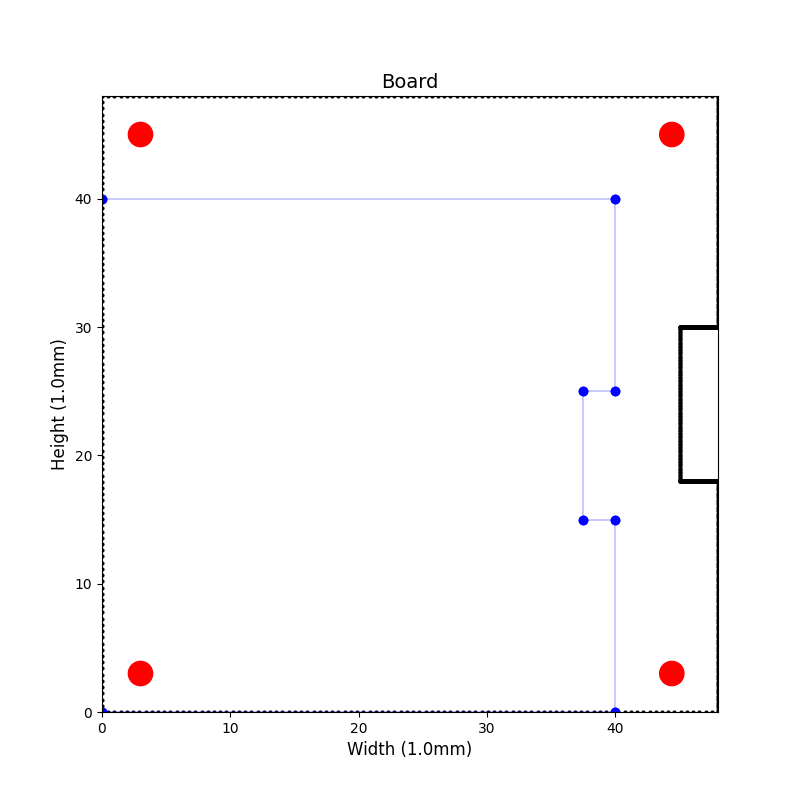
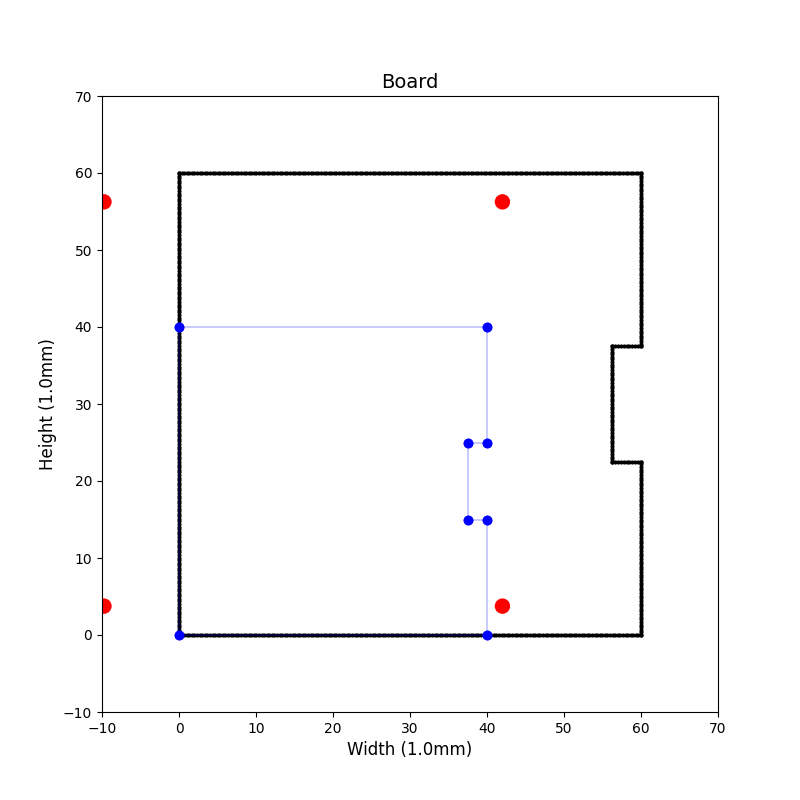
动态适配本地板子-2.0

diff --git a/app/services/layout_service/layout_service.py b/app/services/layout_service/layout_service.py
@@ -4,6 +4,7 @@
 @Author：
 @Time：2024/12/21 14:29
 """
+import math
 import os
 import base64
 import re
@@ -13,13 +14,15 @@ import zipfile
 import io
 from pathlib import Path
 
+import numpy as np
 from fastapi import HTTPException
 from matplotlib import patches
 
 from app.clients.external_service import external_client
 from app.config.logger_config import general_logger, http_logger
 from app.services.layout_service.SSA.parse_kiutils import is_be_contained, is_multiple_tag, reflex_name_to_type, \
-    _shape1, _shape2, _analyze_footprint, _convert_symbol, extract_outer_parentheses_en, extract_outer_parentheses_cn
+    _shape1, _shape2, _analyze_footprint, _convert_symbol, extract_outer_parentheses_en, extract_outer_parentheses_cn, \
+    _shape3
 from app.services.layout_service.SSA.ssa_entity import SymbolModule, BoardEdge
 from app.services.layout_service.SSA.ssa_utils import calculate_arc_parameters, discretize_arc, discretize_line
 from app.services.layout_service.entity.board import Module, Board
@@ -215,7 +218,7 @@ def _get_board_top(data, scale):
             board_edge = _shape2()
             return _get_board_mid(board_edge, scale, "shape2")
         elif template_id == "shape3":
-            board_edge = _shape2()
+            board_edge = _shape3()
             return _get_board_mid(board_edge, scale, "shape3")
     elif source == "upload":
         # 用户上传的自定义文件
@@ -227,19 +230,33 @@ def _get_board_top(data, scale):
 
 
 def _get_board(board_edge: BoardEdge, scale: float, board: Board):
-    """获取板子边界的基本参数"""
-
+    """获取板子边界的point参数"""
+    """
+    放大原理：
+        (x1 - cx) 计算了点 (x1, y1) 相对中心点 (cx, cy) 的水平偏移量。
+        scale 是缩放因子，决定了偏移量被放大的倍数。
+        最终的 x1 是通过将偏移量乘以缩放因子 scale 后，再加上中心点的 x 坐标 (cx)，得到了新的 x 坐标。这样，新的点 (x1, y1) 就被放大或缩小了。
+    """
     # 获取边界线段
     segments = []
+    # 便于计算质心的变量
+    segments_xy = []
+    # 如果为0，表示这是这是弧构成的边界
+    temp_tag = True
     for edge in board_edge.external_edges:
         if len(edge) == 3:
             arc_1, arc_2, arc_3 = edge
-            center, radius, theta_end, theta_start = calculate_arc_parameters(arc_1, arc_2, arc_3)
+            center, radius, theta_start, theta_end = calculate_arc_parameters(arc_1, arc_2, arc_3)
             segments.append(patches.Arc((center[0] * scale, center[1] * scale), 2 * radius * scale, 2 * radius * scale,
                                     angle=0, theta1=theta_start, theta2=theta_end, color='blue'))
+            segments_xy.append(patches.Arc((center[0], center[1]), 2 * radius, 2 * radius,
+                                        angle=0, theta1=theta_start, theta2=theta_end, color='blue'))
         elif len(edge) == 2:
             cx = sum(x for x, y in board_edge.points) / len(board_edge.points)
             cy = sum(y for x, y in board_edge.points) / len(board_edge.points)
+            board_edge.original_center_xy = (cx, cy)
+            print(f"original_center: {board_edge.original_center_xy}")
+            temp_tag = False # 不是弧，是直线
             for item in board_edge.external_edges:
                 x1, y1 = item[0]
                 x2, y2 = item[1]
@@ -252,45 +269,47 @@ def _get_board(board_edge: BoardEdge, scale: float, board: Board):
 
     board.segments = segments
 
+    # 计算弧边界的质心
+    if temp_tag:
+        temp_points = []
+        for segment in segments_xy:
+            if isinstance(segment, patches.Arc):
+                distance = abs(segment.theta2 - segment.theta1)
+                arc_discrete_number = int(1 * distance)
+                temp_points.extend(discretize_arc(arc=segment, N=arc_discrete_number))
+
+        cx = sum(x for x, y in temp_points) / len(temp_points)
+        cy = sum(y for x, y in temp_points) / len(temp_points)
+        board_edge.original_center_xy = (cx, cy)
+
     # 将边界离散为点
     points = []
     for segment in segments:
         if isinstance(segment, patches.Arc):
-            points.extend(discretize_arc(segment, 100))
+            distance = abs(segment.theta2 - segment.theta1)
+            arc_discrete_number = int(1 * distance)
+            points.extend(discretize_arc(arc=segment, N=arc_discrete_number))
         else:
-            pts = discretize_line(segment, 100)
+            # 线段离散方法
+            distance = abs(math.sqrt((segment[0][0] - segment[1][0]) ** 2 + (segment[0][1] - segment[1][1]) ** 2))
+            line_discrete_number = int(3 * distance)
+            pts = discretize_line(line=segment, N=line_discrete_number)
             points.extend(pts)
 
     return points
 
 
-def _amplify_board(points: list[tuple[float, float]], scale: float):
-    """将一个多边形等比例放大scale倍数"""
-    # 计算多边形的质心
-    cx = sum(x for x, y in points) / len(points)
-    cy = sum(y for x, y in points) / len(points)
-
-    # 放大每个点
-    scaled_points = [
-        (cx + scale * (x - cx), cy + scale * (y - cy)) for x, y in points
-    ]
-
-    return scaled_points
-
-
 def _get_board_mid(board_edge: BoardEdge, scale: float, dtype):
-    """获取板子边界的基本参数"""
+    """获取板子边界的基本参数（包括边界线段、离散点和螺丝孔都已经封装）"""
 
     board = Board(None, None)
     board_shape = None
+    #这里的point是没对齐坐标原点的，不能用
     points = _get_board(board_edge, scale, board)
 
     # 外部边界
     x_values = [point[0] for point in points]
     y_values = [point[1] for point in points]
-    # 计算质心
-    cx = sum(x for x, y in points) / len(points)
-    cy = sum(y for x, y in points) / len(points)
 
     min_x = min(x_values)
     max_x = max(x_values)
@@ -310,33 +329,41 @@ def _get_board_mid(board_edge: BoardEdge, scale: float, dtype):
     # cur_file = f"../data/temp/template/{dtype}/{dtype}.txt"
     # append_file(cur_file)
 
-    # 螺丝孔
-    screw_holes = []
+    # 螺丝孔对齐坐标原点
+    # 螺丝孔的坐标对齐，应该是以板子的中心为原点，来看变化距离
+    # 第一轮应该先计算出应该伸缩的距离
+
+    points = [(x - min_x, y - min_y) for x, y in points]
+    (cx, cy) = board_edge.original_center_xy
+
+    first_screw_holes = []
+    second_screw_holes = []
     for index, circle in enumerate(board_edge.internal_edges):
         center, radius = circle
 
         #螺丝柱也要等比例移动
         new_center = (
-            cx + scale * (center[0] - cx),
-            cy + scale * (center[1] - cy)
+            scale * (center[0] - cx),
+            scale * (center[1] - cy)
         )
 
-        x = new_center[0] - radius
-        y = new_center[1] - radius
+        x = scale * (center[0] - cx)
+        y = scale * (center[1] - cy)
         w = 2 * radius
         h = 2 * radius
+
         t_rect = Rectangle(str(index),x, y, w, h, 0, "screw_hole")
-        screw_holes.append(t_rect)
+        first_screw_holes.append(t_rect)
 
-    unit = 1.0
+    # 第二轮以已经对齐的坐标为原点为参考，来计算螺丝孔的位置
+    new_cx = sum(x for x, y in points) / len(points)
+    new_cy = sum(y for x, y in points) / len(points)
+    for rect in first_screw_holes:
+        rect.x = new_cx + rect.x - rect.w / 2
+        rect.y = new_cy + rect.y - rect.h / 2
+        second_screw_holes.append(rect)
 
-    # 对齐坐标原点
-    points = [(x - min_x, y - min_y) for x, y in points]
-
-    for rect in screw_holes:
-        rect.x -= min_x
-        rect.y -= min_y
-
+    # 外边界的另一种表示形式也要对齐坐标原点
     new_external_edges = []
     for segment in board_edge.external_edges:
         if len(segment) == 3:
@@ -346,9 +373,12 @@ def _get_board_mid(board_edge: BoardEdge, scale: float, dtype):
             new_external_edges.append(segment)  # 保持不变
     board_edge.external_edges = new_external_edges
 
+    # 板子单位1mm
+    unit = 1.0
+
     other = {
         "points": points,
-        "screw_holes": screw_holes,
+        "screw_holes": second_screw_holes,
         "arc_segments": board_edge.external_edges
     }
     temp_board = Board(board_shape, board_size, unit, other)
@@ -493,3 +523,23 @@ def _clean_temp_folder(temp_folder :str):
                 os.remove(file_path)
         except Exception as e:
             general_logger.error(f"Error occurred while deleting {file_path}: {e}")
+
+
+def _calculate_arc_length(segment: patches.Arc):
+    # 对于椭圆弧线，长轴半径是 width / 2，短轴半径是 height / 2
+    radius_x = segment.width / 2
+    radius_y = segment.height / 2
+
+    # 获取起始角度和终止角度（单位是度）
+    start_angle = segment.angle
+    end_angle = segment.theta2
+
+    # 计算角度差并转换为弧度
+    angle_diff = abs(end_angle - start_angle)
+    angle_diff_rad = np.deg2rad(angle_diff)
+
+    # 如果是椭圆弧线，弧长的计算更复杂。这里我们用一个近似值，即平均半径
+    avg_radius = (radius_x + radius_y) / 2
+    arc_length = avg_radius * angle_diff_rad
+
+    return arc_length

diff --git a/app/services/layout_service/SSA/parse_kiutils.py b/app/services/layout_service/SSA/parse_kiutils.py
@@ -526,15 +526,16 @@ def _shape2(file_path = "../data/temp/template/shape2/shape2.kicad_pcb"):
 
     external_edges = [edge_1, edge_2, edge_3, edge_4, edge_5, edge_6]
 
-    cp1 = (2.5, 6)
+    # svg的坐标高了0.1，是为了显示，这里要去掉
+    cp1 = (30.0, 6.0)
     r1 = 1
     circle_1 = (cp1, r1)
 
-    cp2 = (10, 6)
+    cp2 = (10.0, 6.0)
     r2 = 1
     circle_2 = (cp2, r2)
 
-    cp3 = (20, 38)
+    cp3 = (20.0, 38.0)
     r3 = 1
     circle_3 = (cp3, r3)
 
@@ -555,22 +556,23 @@ def _shape3(file_path = "../data/temp/template/shape3/shape3.kicad_pcb"):
     file_path = os.path.join(base_dir, file_path)
     board = Board().from_file(file_path, encoding='utf-8')
 
+    # 弧线段为逆时针方向
     # Arc 1
     arc_1_1 = (25, 50)
     arc_1_2 = (0, 25)
     arc_1_3 = (25, 0)
 
-    # Arc 2
+    # Arc 2-缺口
     arc_2_1 = (45, 10)
     arc_2_2 = (41.464466, 8.535534)
     arc_2_3 = (40, 5)
 
     # Arc 3
-    arc_3_1 =  (50, 25)
+    arc_3_1 = (50, 25)
     arc_3_2 = (48.717082, 32.905694)
     arc_3_3 = (45, 40)
 
-    # Arc 4
+    # Arc 4-缺口
     arc_4_1 = (45, 10)
     arc_4_2 = (48.717082, 17.094306)
     arc_4_3 = (50, 25)
@@ -586,9 +588,9 @@ def _shape3(file_path = "../data/temp/template/shape3/shape3.kicad_pcb"):
     arc_6_3 = (25, 50)
 
     # Arc 7
-    arc_7_1 =  (25.000003, 0.000009)
+    arc_7_1 =  (25, 0)
     arc_7_2 =  (32.905697, 1.282909)
-    arc_7_3 =  (40.000003, 4.999991)
+    arc_7_3 =  (40, 5)
 
     edge_1 = (arc_1_1, arc_1_2, arc_1_3)
     edge_2 = (arc_2_1, arc_2_2, arc_2_3)
@@ -601,12 +603,12 @@ def _shape3(file_path = "../data/temp/template/shape3/shape3.kicad_pcb"):
     external_edges = [edge_1, edge_2, edge_3, edge_4, edge_5, edge_6, edge_7]
 
     # Circle 1
-    cp1 = (5, 25)
+    cp1 = (5.0, 25.0)
     r1 = 1
     circle_1 = (cp1, r1)
 
     # Circle 2
-    cp2 = (45, 25)
+    cp2 = (45.0, 25.0)
     r2 = 1
     circle_2 = (cp2, r2)
 

diff --git a/app/services/layout_service/uniform/uniform_player.py b/app/services/layout_service/uniform/uniform_player.py
@@ -11,8 +11,8 @@ def _draw_board(board: Board, scale: float):
 
     # 基础设置
     fig, ax = plt.subplots(figsize=(8, 8))
-    ax.set_xlim(0, board.size[0])
-    ax.set_ylim(0, board.size[1])
+    ax.set_xlim(-10, board.size[0] + 10)
+    ax.set_ylim(-10, board.size[1] + 10)
     ax.set_aspect('equal')
     ax.set_title('Board', fontsize=14)
     ax.set_xlabel(f'Width ({board.unit}mm)', fontsize=12)
@@ -37,7 +37,7 @@ def _draw_board(board: Board, scale: float):
     for edge in board.other["arc_segments"]:
         if len(edge) == 3:
             arc_1, arc_2, arc_3 = edge
-            center, radius, theta_end, theta_start = calculate_arc_parameters(arc_1, arc_2, arc_3)
+            center, radius, theta_start, theta_end = calculate_arc_parameters(arc_1, arc_2, arc_3)
             segments.append(patches.Arc((center[0] * scale, center[1] * scale), 2 * radius * scale, 2 * radius * scale,
                                     angle=0, theta1=theta_start, theta2=theta_end, color='blue'))
         elif len(edge) == 2:

diff --git a/app/services/layout_service/SSA/ssa_utils.py b/app/services/layout_service/SSA/ssa_utils.py
@@ -405,6 +405,15 @@ def calculate_arc_parameters(p1, p2, p3):
     # 计算中间点的角度，判断弧的方向
     theta_mid = angle_from_center(x2, y2, h, k)
 
+    def positive_angle(theta):
+        if theta < 0:
+            return 360 + theta
+        return theta
+
+    theta1 = positive_angle(theta1)
+    theta2 = positive_angle(theta2)
+    theta_mid = positive_angle(theta_mid)
+
     # 确定起始角和结束角，使其包含中间点
     if not (min(theta1, theta2) <= theta_mid <= max(theta1, theta2)):
         theta1, theta2 = theta2, theta1

diff --git a/app/services/layout_service/test/test_draw_board.py b/app/services/layout_service/test/test_draw_board.py
@@ -1,0 +1,13 @@
+from app.services.layout_service.SSA.parse_kiutils import _shape2, _shape1, _shape3
+from app.services.layout_service.layout_service import _get_board_mid
+from app.services.layout_service.uniform.uniform_player import _draw_board
+
+
+def test_get_board():
+    board_edge = _shape1()
+    return _get_board_mid(board_edge, 1.5, "shape1")
+
+if __name__ == '__main__':
+    board = test_get_board()
+    _draw_board(board, 1)
+    print("test finished")

diff --git a/app/services/layout_service/SSA/ssa_entity.py b/app/services/layout_service/SSA/ssa_entity.py
@@ -82,6 +82,7 @@ class BoardEdge:
         self.external_edges = external_edges
         self.raw_data = raw_data
         self.points = points
+        self.original_center_xy = None  # 中心点坐标
 
     def __str__(self):
         return f"id:{self.id}, internal_edges:{self.internal_edges}, external_edges:{self.external_edges}, raw_data:{self.raw_data}, points:{self.points}"
